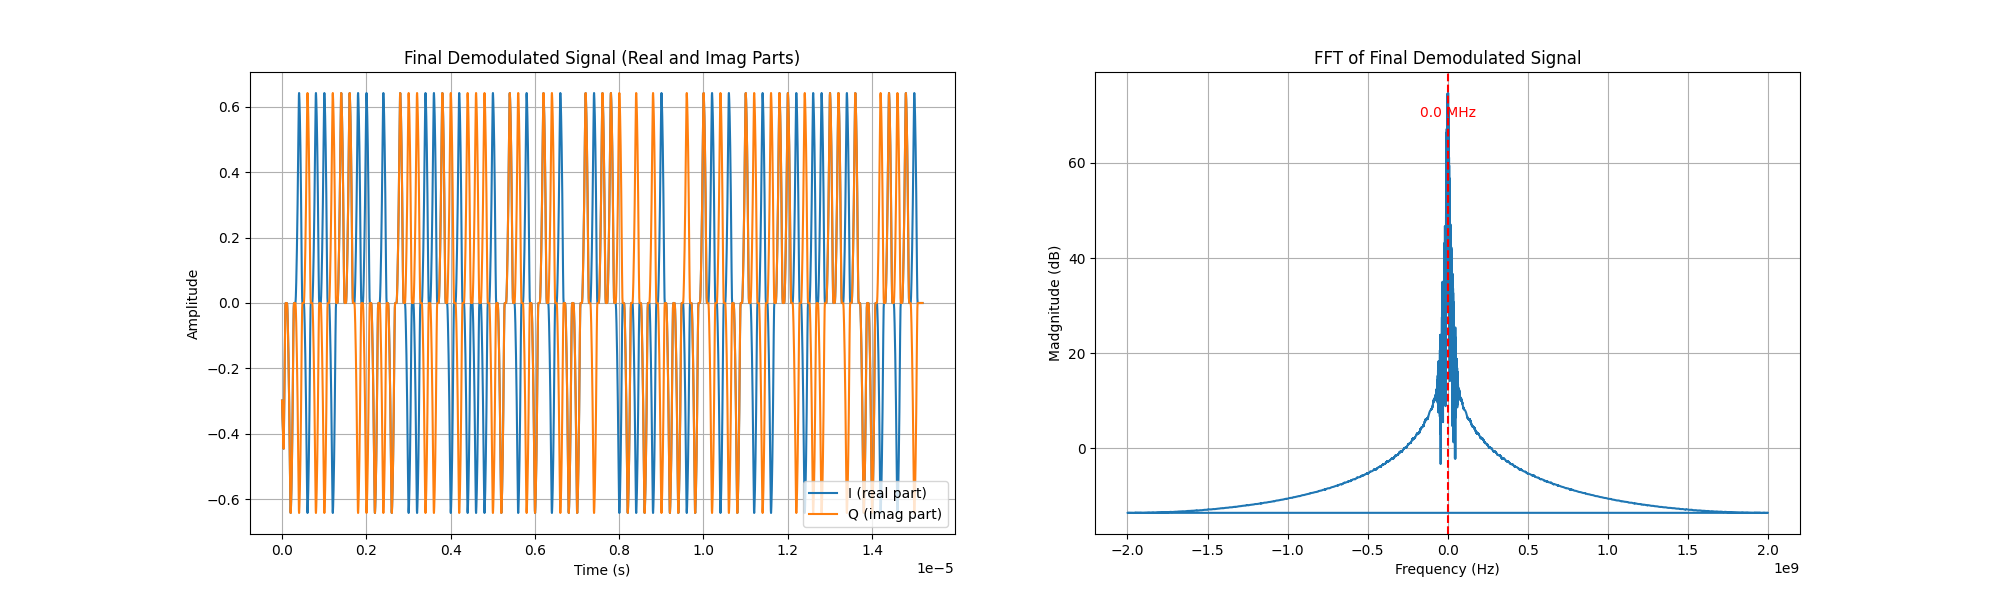
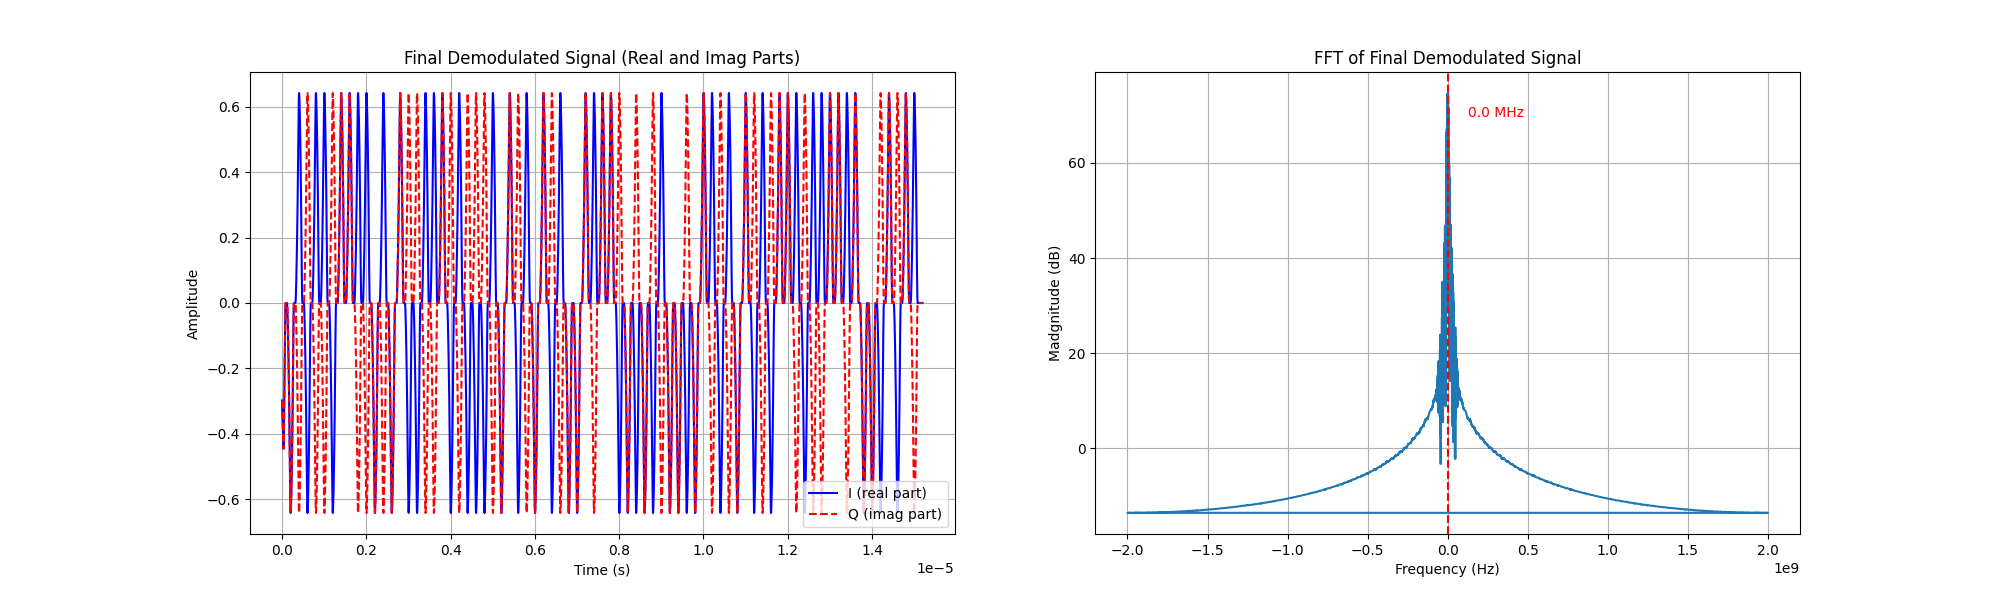
changes

Changed region(s): [[0.124, 0.15, 0.465, 0.87], [0.713, 0.18, 0.775, 0.21]]

diff --git a/Phys_Sim/main.py b/Phys_Sim/main.py
@@ -69,6 +69,8 @@ with ui.row().style('height: 100vh; width: 100%; display: flex; justify-content:
 @ui.page('/simulate_page')
 def simulate_page():
     """This function creates the simulation page where the user can select a simulation type and input parameters."""
+    with ui.column().style('width: 100%; justify-content: center; align-items: center;'):
+        ui.html('<u>Project Red Mountain</u>').style('font-size: 3em; font-weight: bold;')
     simulation_container = ui.column().style('order: 2;')
     with ui.row().style('justify-content: center;'):
         ui.label('Simulation Type').style('font-size: 2em; font-weight: bold;')
@@ -216,16 +218,16 @@ def simulate_page():
     ]
     simulation_type_dropdown = ui.select(choices, on_change=open_simulation_single_message).style('width: 200px; height: 40px;')
 
-    with ui.column().style('position: absolute; top: 500px; left: 700px; '):
+    with ui.column().style('position: absolute; top: 600px; left: 700px; '):
         with ui.link(target='/signal_generator_page'):
             ui.image('media/antenna_graphic.png').style('width:200px;')
         ui.label("Signal Generator").style('font-size: 1.5em; font-weight: bold;')
-    with ui.column().style('position: absolute; top: 20px; left: 1000px;'):
+    with ui.column().style('position: absolute; top: 120px; left: 1000px;'):
         ui.label("Repeater").style('font-size: 1.5em; font-weight: bold; margin-left: 55px;')
         with ui.link(target='/repeater_page'):
             ui.image('media/sattelite.png').style('width:300px;')
 
-    with ui.column().style('position: absolute; top: 500px; left: 1500px;'): 
+    with ui.column().style('position: absolute; top: 600px; left: 1500px;'): 
         with ui.link(target='/receiver_page'):
             ui.image('media/antenna_graphic_flipped.png').style('width:200px;')
         ui.label("Receiver").style('font-size: 1.5em; font-weight: bold; margin-left: 110px;')
@@ -236,6 +238,8 @@ def simulate_page():
 def signal_generator_page():
     """This function creates the Signal Generator page where the user can view outputs from the signal generator."""
     ui.button('back', on_click=ui.navigate.back)
+    with ui.column().style('width: 100%; justify-content: center; align-items: center;'):
+        ui.html('<u>Signal Generator Page</u>').style('font-size: 3em; font-weight: bold;')
     #create the qpsk wave form from the message
     if message_input is not None:
         with ui.column().style('width: 100%; justify-content: center; align-items: center;'):
@@ -265,7 +269,8 @@ def signal_generator_page():
 #simulation Repeater page
 @ui.page('/repeater_page')
 def repeater_page():
-
+    with ui.column().style('width: 100%; justify-content: center; align-items: center;'):
+        ui.html('<u>Repeater Page</u>').style('font-size: 3em; font-weight: bold;')
     """This function creates the repeater page where the user can view outputs from the repeater."""
     ui.button('back', on_click=ui.navigate.back)
     if message_input is not None:
@@ -279,6 +284,8 @@ def repeater_page():
 #simulation receiver page
 @ui.page('/receiver_page')
 def receiver_page():
+    with ui.column().style('width: 100%; justify-content: center; align-items: center;'):
+        ui.html('<u>Receiver Page</u>').style('font-size: 3em; font-weight: bold;')
     """This function creates the Receiver page where the user can view outputs from the receiver."""
     ui.button('back', on_click=ui.navigate.back)
     #on this page put plots

diff --git a/Phys_Sim/Plotter.py b/Phys_Sim/Plotter.py
@@ -246,9 +246,10 @@ def Plotter(sample_rate, t, tx_signal, tx_vert_lines, symbol_rate, tx_symbols, t
                     freqs = np.fft.fftfreq(len(rx_filtered_signal), d=1/sample_rate)
                     db_vals = 20*np.log10(ao_fft)
 
+                    peak_freq = 0
                     plt.plot(freqs, db_vals)
-                    #plt.axvline(x=peak_freq, color='r', linestyle='--', label=f'Peak: {peak_freq/1e6:.1f} MHz')
-                    #plt.text(peak_freq + 150e6, np.max(db_vals) - 5, f'{peak_freq/1e6:.1f} MHz', color='r', ha='center')
+                    plt.axvline(x=peak_freq, color='r', linestyle='--', label=f'Peak: {peak_freq/1e6:.1f} MHz')
+                    plt.text(peak_freq + 0.3e9, np.max(db_vals) - 5, f'{peak_freq/1e6:.1f} MHz', color='r', ha='center')
                     plt.title('FFT of the Baseband Signal After Filtering')
                     plt.xlabel('Frequency (Hz)')
                     plt.ylabel('Madgnitude (dB)')
@@ -296,7 +297,7 @@ def Plotter(sample_rate, t, tx_signal, tx_vert_lines, symbol_rate, tx_symbols, t
                     plt.subplot(1, 2, 2)
                     plt.plot(freqs, db_vals)
                     plt.axvline(x=peak_freq, color='r', linestyle='--', label=f'Peak: {peak_freq/1e6:.1f} MHz')
-                    plt.text(peak_freq + 0.2, np.max(db_vals) - 5, f'{peak_freq/1e6:.1f} MHz', color='r', ha='center')
+                    plt.text(peak_freq + 0.3e9, np.max(db_vals) - 5, f'{peak_freq/1e6:.1f} MHz', color='r', ha='center')
                     plt.title('FFT of Final Demodulated Signal')
                     plt.xlabel('Frequency (Hz)')
                     plt.ylabel('Madgnitude (dB)')
